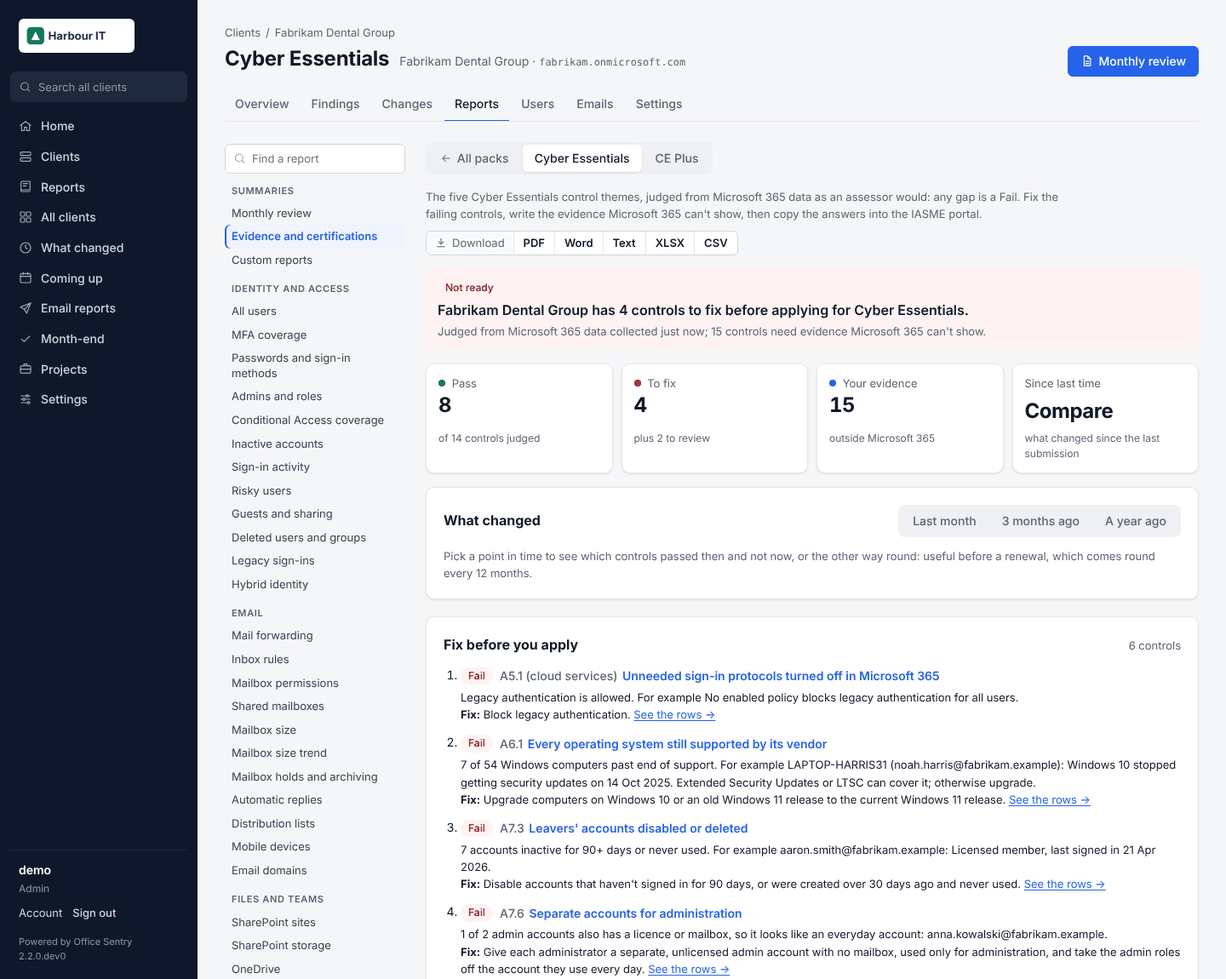
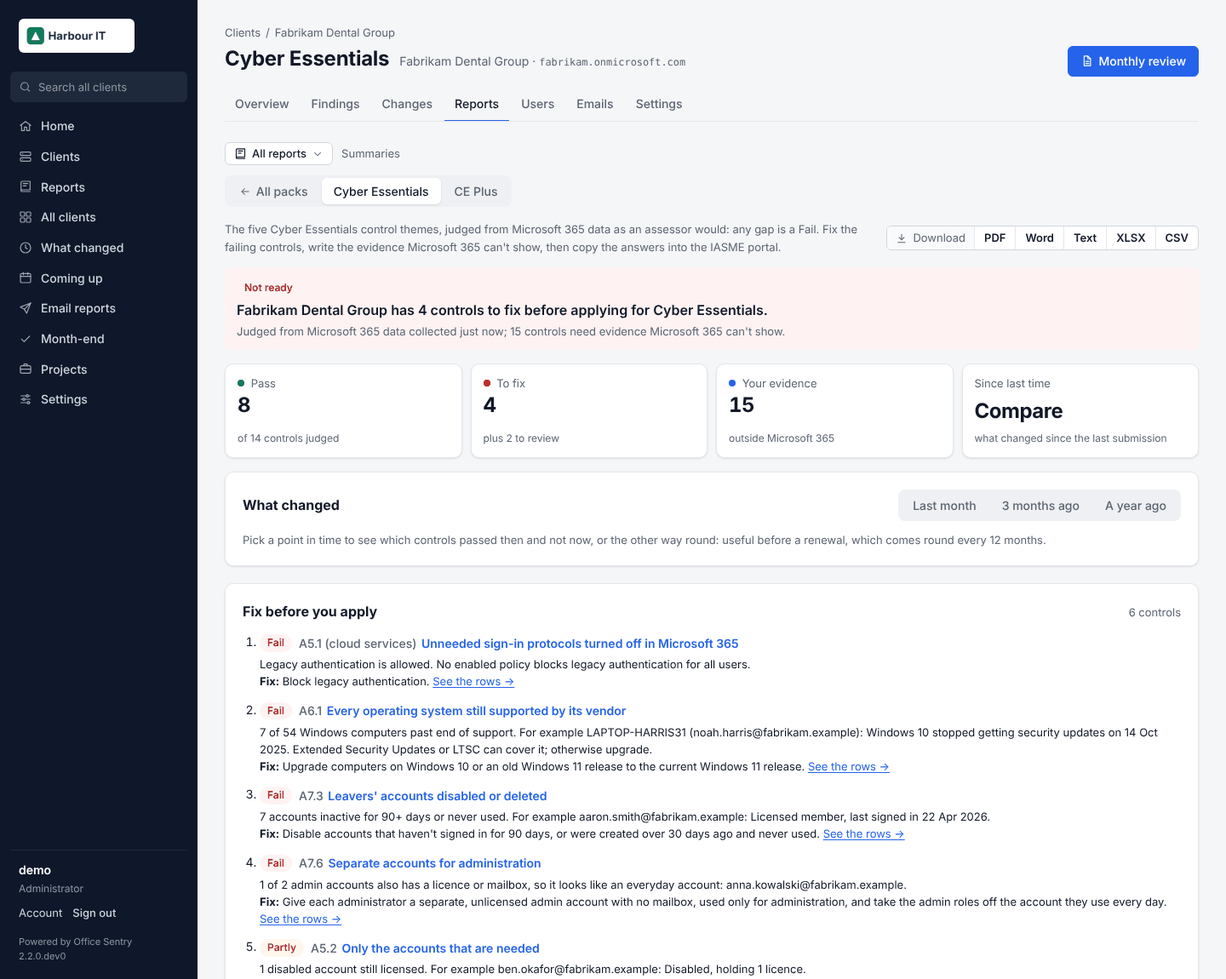
Reports use the screen: an All reports menu, a wider page and leaner tables
The list of reports beside every report becomes an "All reports" menu above it,
and pages can be 1,600 pixels wide, so a report's table gets the page's width.
A plain flag is a label beside the row's first value instead of a mostly empty
column, and explanation columns in wide tables are a line under their row.

Changed region(s): [[0.1875, 0.1522, 0.9688, 1.0], [0.9062, 0.6087, 0.9688, 0.6696], [0.5, 0.3957, 0.5312, 0.4261]]

diff --git a/v2/officesentry/web/static/app.css b/v2/officesentry/web/static/app.css
@@ -43,7 +43,8 @@ td.num { white-space: nowrap; }
 .demo-bar { display: flex; gap: var(--space-3); align-items: center; padding: var(--space-2-5) var(--space-8); background: var(--accent-soft); color: var(--text-2); border-bottom: 1px solid var(--border); font-size: var(--fs-base); }
 .demo-bar strong { color: var(--text); }
 .demo-bar .btn { flex: none; }
-main { max-width: 1240px; margin: 0 auto; padding: 28px 32px 64px; }
+/* Wide enough for a report's table on a big screen; text and forms keep their own narrower widths. */
+main { max-width: 1600px; margin: 0 auto; padding: 28px 32px 64px; }
 
 /* -- Page header, breadcrumbs, tabs --------------------------------------- */
 .crumbs { font-size: var(--fs-sm); color: var(--muted); margin-bottom: var(--space-1-5); display: flex; gap: var(--space-1-5); flex-wrap: wrap; }
@@ -226,7 +227,7 @@ details.help > summary { font-size: var(--fs-base); }
 .center { text-align: center; }
 .auth-card .form-actions .btn.primary { width: auto; }
 .client-tenant .tiles { margin-bottom: var(--space-3-5); }
-.footnote { color: var(--muted); font-size: var(--fs-sm); margin-top: var(--space-2); }
+.footnote { color: var(--muted); font-size: var(--fs-sm); margin-top: var(--space-2); max-width: 120ch; }
 
 /* -- Settings: one sidebar entry, and this row on top of every settings page ------------------------ */
 .settings-nav { display: flex; gap: var(--space-1); margin: -8px 0 20px; padding-bottom: var(--space-3); border-bottom: 1px solid var(--border); overflow-x: auto; scrollbar-width: none; }
@@ -710,20 +711,27 @@ td.tenant-col { min-width: 190px; }
 .connection-form { margin: var(--space-4) 0 0; }
 .connection-form > label { flex: 1 1 200px; }
 
-/* -- Reports tab: one report picker (report_picker) beside the report ----------------
-   A searchable list on the left on wide screens, kept in view as the page scrolls; a select above the
-   report on narrower ones. */
-.report-layout { display: grid; grid-template-columns: 212px minmax(0, 1fr); gap: var(--space-6); align-items: start; }
+/* -- Reports tab: one report picker (report_picker) above the report ----------------
+   An "All reports" menu with the report's area beside it, so the report has the page's whole width: the
+   menu shows every report in columns with a search box. A select on phones. */
+.report-layout { display: block; }
 .report-main { min-width: 0; }
-.report-menu { position: sticky; top: calc(var(--pin-h, 0px) + var(--space-4)); display: flex; flex-direction: column; max-height: calc(100vh - var(--pin-h, 0px) - var(--space-8)); margin-top: var(--space-0-5); }
+.report-menu { display: flex; align-items: center; gap: var(--space-2-5); margin: 0 0 var(--space-3); }
+.report-switch > summary { display: inline-flex; align-items: center; gap: var(--space-1-5); }
+.report-switch > summary .chev { width: 14px; height: 14px; color: var(--muted); transition: transform .15s; }
+.report-switch[open] > summary .chev { transform: rotate(180deg); }
+.report-area { color: var(--muted); font-size: var(--fs-sm); }
+.menu-panel.report-panel { left: 0; right: auto; width: min(1040px, calc(100vw - 232px - var(--space-16))); max-height: none; overflow: visible; padding: var(--space-3) var(--space-4) var(--space-3); }
+.report-panel .picker-search { max-width: 320px; }
 .picker-search { position: relative; flex: none; }
 .picker-search .icon { position: absolute; left: 10px; top: 50%; transform: translateY(-50%); width: 15px; height: 15px; color: var(--decor); pointer-events: none; }
 .picker-search input[type=search] { margin: 0; padding: 6px 10px 6px 31px; font-size: var(--fs-sm); }
-.picker-list { overflow-y: auto; overscroll-behavior: contain; scrollbar-width: thin; margin: var(--space-2) calc(-1 * var(--space-1)) 0; padding: 0 var(--space-1) var(--space-2); }
+.picker-list { margin: var(--space-2) calc(-1 * var(--space-1)) 0; padding: 0 var(--space-1); }
+.report-panel .picker-list { columns: 4 200px; column-gap: var(--space-5); max-height: min(68vh, 620px); overflow-y: auto; overscroll-behavior: contain; scrollbar-width: thin; }
+.report-panel .report-group { break-inside: avoid; padding-bottom: var(--space-2); }
 .picker-list ul { list-style: none; margin: 0; padding: 0; }
-.picker-label { margin: var(--space-3) var(--space-2) var(--space-1); font-size: var(--fs-2xs); font-weight: 600; text-transform: uppercase; letter-spacing: .06em; color: var(--muted); }
-.report-group:first-child .picker-label { margin-top: var(--space-1); }
-.picker-list .report-group li a { display: block; padding: 5px var(--space-2); border-radius: var(--radius-sm); color: var(--text-2); font-size: var(--fs-sm); font-weight: 400; line-height: 1.35; }
+.picker-label { margin: var(--space-2) var(--space-2) var(--space-1); font-size: var(--fs-2xs); font-weight: 600; text-transform: uppercase; letter-spacing: .06em; color: var(--muted); }
+.picker-list .report-group li a { display: block; padding: 4px var(--space-2); border-radius: var(--radius-sm); color: var(--text-2); font-size: var(--fs-sm); font-weight: 400; line-height: 1.35; }
 .picker-list .report-group li a:hover { background: var(--sunken); color: var(--text); text-decoration: none; }
 .picker-list .report-group li a[aria-current] { background: var(--accent-soft); color: var(--accent); font-weight: 600; box-shadow: inset 2px 0 0 var(--accent); }
 .report-menu .no-match { margin: var(--space-2) var(--space-2) 0; color: var(--muted); font-size: var(--fs-sm); }
@@ -738,20 +746,22 @@ td.tenant-col { min-width: 190px; }
 .toolbar.report-title { align-items: flex-end; }
 /* The title and its description share a row with the report's buttons, which keep to the right. */
 .report-main > .toolbar.report-title { flex-wrap: nowrap; align-items: flex-start; margin-bottom: var(--space-3-5); }
-.report-main > .toolbar.report-title > div:first-child { flex: 1 1 auto; min-width: 0; max-width: 620px; }
+.report-main > .toolbar.report-title > div:first-child { flex: 1 1 auto; min-width: 0; max-width: 760px; }
 .report-main > .toolbar.report-title .toolbar-actions { flex: none; justify-content: flex-end; padding-top: var(--space-0-5); }
 /* Headline figures sit in one row beside the picker, so the table starts higher. */
 .report-main .tiles { grid-template-columns: repeat(auto-fit, minmax(124px, 1fr)); gap: var(--space-2-5); margin-bottom: var(--space-4); }
 .report-main .tile { padding: var(--space-3) var(--space-3-5); }
 .report-main .tile .value { font-size: var(--fs-2xl); white-space: nowrap; }
 .report-main .tile .value.wordy { white-space: normal; }
-@media (max-width: 1279px) {
-  .report-layout { display: block; }
+@media (max-width: 1100px) {
   .report-main > .toolbar.report-title { flex-wrap: wrap; }
   .report-main > .toolbar.report-title .toolbar-actions { flex: 1 1 auto; justify-content: flex-start; }
+}
+@media (max-width: 960px) {
   .report-menu { display: none; }
   .report-menu-sm { display: flex; }
 }
+
 @media (max-width: 640px) {
   .report-main .tiles { grid-template-columns: repeat(2, minmax(0, 1fr)); }
 }
@@ -1265,7 +1275,7 @@ dd.sg-row { margin-bottom: 0; }
   .sg-name { min-width: 0; }
   .sg-type li { flex-wrap: wrap; gap: var(--space-1) var(--space-3); }
 }
-.sg-frame .report-menu { position: static; max-height: 360px; }
+.sg-frame .report-menu { margin-bottom: var(--space-2); }
 /* -- Home pages by role (home_today.html, home_clients.html) --------------------------------------------- */
 .home-switch { margin: 0; }
 .make-home { align-self: center; }
@@ -1491,3 +1501,36 @@ details.part:not([open]) > summary.card-head { margin-bottom: 0; }
   .edit-pair { display: grid; grid-template-columns: minmax(0, 640px) minmax(0, 1fr); gap: 0 var(--space-5); align-items: start; }
   .edit-pair > .card { max-width: none; }
 }
+
+/* -- Page review 3: reports use the page's width --------------------------------
+   The All reports menu sits above the report with "Show as it was on" at the other end of its row. */
+.report-layout:has(> .date-pick) { display: grid; grid-template-columns: minmax(0, 1fr) auto; column-gap: var(--space-4); align-items: center; }
+.report-layout > .report-main, .report-layout > .report-menu-sm { grid-column: 1 / -1; }
+.report-layout > .date-pick { grid-column: 2; grid-row: 1; margin: 0 0 var(--space-3); }
+@media (max-width: 960px) { .report-layout > .date-pick { grid-column: 1 / -1; grid-row: auto; } }
+/* A plain flag beside the row's first value, instead of a column that's empty on most rows. */
+.flag-pill { display: inline-block; margin-left: var(--space-1-5); padding: 0 var(--space-1-5); border-radius: var(--radius-pill); font-size: var(--fs-2xs); font-weight: 700; line-height: 1.6; text-transform: uppercase; letter-spacing: .04em; vertical-align: 1px; white-space: nowrap; }
+.flag-pill.critical { color: var(--sev-critical); background: var(--sev-critical-soft); }
+.flag-pill.high { color: var(--sev-high); background: var(--sev-high-soft); }
+.flag-pill.medium { color: var(--sev-medium); background: var(--sev-medium-soft); }
+.flag-pill.low, .flag-pill.info { color: var(--sev-low); background: var(--sev-low-soft); }
+/* What a row means or what to do about it: a line under the row (views.NOTE_COLUMNS), so the facts stay in
+   columns side by side. It stays at the left of the box while the table scrolls sideways. */
+tbody tr:has(+ tr.row-note) > td { border-bottom: 0; padding-bottom: var(--space-1); }
+tr.row-note > td { padding-top: 0; color: var(--muted); font-size: var(--fs-sm); }
+.table-scroll tr.row-note > td { position: static; }
+tr.row-note .note { position: sticky; left: var(--space-3); max-width: min(110ch, 100%); display: flex; flex-direction: column; gap: var(--space-0-5); }
+tr.row-note .note strong { color: var(--text-2); font-weight: 600; }
+tbody tr:hover + tr.row-note > td, tbody tr.row-note:hover > td { background: var(--surface-2); }
+@media (max-width: 640px) {
+  table.stack-sm tr:has(+ tr.row-note) { border-bottom: 0; padding-bottom: 0; }
+  table.stack-sm tr.row-note { padding-top: var(--space-1); }
+  table.stack-sm tr.row-note > td { display: block; padding: 0 var(--space-3) !important; font-weight: 400; }
+  table.stack-sm tr.row-note .note { position: static; }
+}
+/* A table's own introduction reads as a caption, and the links to a report's tables look like what they do. */
+.card.flush.table-card > .intro { font-size: var(--fs-sm); max-width: 120ch; }
+.report-main > .jump { gap: var(--space-2); }
+.report-main > .jump a { padding: var(--space-1) var(--space-3); border: 1px solid var(--border); border-radius: var(--radius-pill); background: var(--surface); font-size: var(--fs-sm); color: var(--text-2); }
+.report-main > .jump a:hover { border-color: var(--border-strong); color: var(--text); text-decoration: none; }
+.report-main > .jump a.active { border-color: var(--accent); color: var(--accent); }

diff --git a/v2/officesentry/web/templates/_macros.html b/v2/officesentry/web/templates/_macros.html
@@ -147,33 +147,41 @@
 </div>
 {%- endmacro %}
 
-{# The Reports tab's one report picker: every report the tenant has, grouped, with a search box. A list on
-   the left on wide screens, a select on narrower ones. The page puts it in a .report-layout beside
+{# The Reports tab's one report picker: every report the tenant has, grouped, with a search box. On
+   laptops an "All reports" menu above the report (its area beside it), so the report has the page's whole
+   width; a select on phones. The page puts it in a .report-layout above
    <div class="report-main" id="report" tabindex="-1">. current: a detail report's key, 'review' or 'evidence'. #}
 {% macro _picker_href(tenant, e) %}{% if e.kind == 'review' %}{{ url_for('reports.tenant_report', tenant_id=tenant.id) }}{% elif e.kind == 'evidence' %}{{ url_for('reports.evidence_pack', tenant_id=tenant.id) }}{% else %}{{ url_for('reports.data_report', tenant_id=tenant.id, key=e.key) }}{% endif %}{% endmacro %}
 {% macro report_picker(tenant, current) -%}
 {% set staff = current_user.role != 'client' and can('reports.security', tenant.id) %}
 {% set areas = report_catalogue() %}
 {% set shown = ('data', 'review', 'evidence') %}
+{% set here = namespace(area='') %}
 <nav class="report-menu" aria-label="Reports">
   <a class="skip-picker" href="#report">Skip to the report</a>
-  <div class="picker-search">
-    {{ icon('search') }}<label for="report-find" class="sr-only">Find a report</label>
-    <input id="report-find" type="search" placeholder="Find a report" autocomplete="off" maxlength="100" data-report-search="report-list">
-  </div>
-  <div class="picker-list" id="report-list">
-    {% for area in areas %}{% set entries = [] %}{% for e in area.entries if e.kind in shown and can(entry_capability(e), tenant.id) %}{% set _ = entries.append(e) %}{% endfor %}{% if entries %}
-    <div class="report-group">
-      <p class="picker-label" id="picker-{{ area.key }}">{{ area.title }}</p>
-      <ul aria-labelledby="picker-{{ area.key }}">
-        {% for e in entries %}<li data-name="{{ e.search }}"><a href="{{ _picker_href(tenant, e) }}" title="{{ e.description }}"{% if e.key == current %} aria-current="page"{% endif %}>{{ e.title }}</a></li>
-        {% endfor %}
-        {% if loop.first and staff %}<li data-name="custom reports report designs blocks"><a href="{{ url_for('designs.tenant_designs', tenant_id=tenant.id) }}" title="Your report designs, on this client's data"{% if current == 'designs' %} aria-current="page"{% endif %}>Custom reports</a></li>{% endif %}
-      </ul>
+  <details class="menu report-switch" id="report-switch">
+    <summary class="btn sm" title="Every report for {{ tenant.name }}">{{ icon('library') }}<span>All reports</span>{{ icon('chevron', 'chev') }}</summary>
+    <div class="menu-panel report-panel">
+      <div class="picker-search">
+        {{ icon('search') }}<label for="report-find" class="sr-only">Find a report</label>
+        <input id="report-find" type="search" placeholder="Find a report" autocomplete="off" maxlength="100" data-report-search="report-list">
+      </div>
+      <div class="picker-list" id="report-list">
+        {% for area in areas %}{% set entries = [] %}{% for e in area.entries if e.kind in shown and can(entry_capability(e), tenant.id) %}{% set _ = entries.append(e) %}{% if e.key == current or (current in ('review', 'evidence') and e.kind == current) %}{% set here.area = area.title %}{% endif %}{% endfor %}{% if entries %}
+        <div class="report-group">
+          <p class="picker-label" id="picker-{{ area.key }}">{{ area.title }}</p>
+          <ul aria-labelledby="picker-{{ area.key }}">
+            {% for e in entries %}<li data-name="{{ e.search }}"><a href="{{ _picker_href(tenant, e) }}" title="{{ e.description }}"{% if e.key == current %} aria-current="page"{% endif %}>{{ e.title }}</a></li>
+            {% endfor %}
+            {% if loop.first and staff %}<li data-name="custom reports report designs blocks"><a href="{{ url_for('designs.tenant_designs', tenant_id=tenant.id) }}" title="Your report designs, on this client's data"{% if current == 'designs' %} aria-current="page"{% endif %}>Custom reports</a></li>{% if current == 'designs' %}{% set here.area = area.title %}{% endif %}{% endif %}
+          </ul>
+        </div>
+        {% endif %}{% endfor %}
+      </div>
+      <p class="no-match" hidden>No report matches. The <a href="{{ url_for('reports.overview', tenant=tenant.id) }}">Reports page</a> searches by job too.</p>
     </div>
-    {% endif %}{% endfor %}
-  </div>
-  <p class="no-match" hidden>No report matches. The <a href="{{ url_for('reports.overview', tenant=tenant.id) }}">Reports page</a> searches by job too.</p>
+  </details>
+  {% if here.area %}<span class="report-area">{{ here.area }}</span>{% endif %}
 </nav>
 <form method="get" action="{{ url_for('reports.data_index', tenant_id=tenant.id) }}" class="picker-form report-menu-sm" data-autosubmit>
   <label for="report-key">Report</label>

diff --git a/v2/officesentry/web/templates/_report_table.html b/v2/officesentry/web/templates/_report_table.html
@@ -106,20 +106,28 @@
   <p class="no-rows">No rows match {{ 'this filter' if tv.chips|length == 1 else 'these filters' }}. <a href="{{ tv.clear_href }}" data-view>Show all {{ tv.total }}</a></p>
   {% else %}
   {% set sortable = tv.total > 1 %}
-  {% set width = tv.shown|length + (1 if tv.flag else 0) + (1 if acts else 0) %}
+  {#- A plain "Flag" sits beside the row's first value (the coloured edge marks the row too); a named one
+      (Severity, Priority) keeps its own column, since people sort by it. -#}
+  {% set flagcol = tv.flag and section.flag_name != 'Flag' %}
+  {% set notes = tv.notes %}
+  {% set width = tv.shown|length - notes|length + (1 if flagcol else 0) + (1 if acts else 0) %}
   <div class="table-scroll{{ ' tall' if tv.rows|length > 12 }}" data-key="{{ tv.slug }}">
   <table class="stack-sm{{ ' grouped' if tv.groups }}" id="tbl-{{ tv.slug }}">
     <thead><tr>
-      {% if tv.flag %}<th class="flagcol" aria-sort="{{ {'asc': 'ascending', 'desc': 'descending'}.get(tv.flag.sort, 'none') }}">{% if sortable %}<a class="sort" href="{{ tv.flag.sort_href }}" data-view title="Sort by {{ tv.flag.name|lower }}">{{ tv.flag.name }}</a>{% else %}{{ tv.flag.name }}{% endif %}{% if tv.flag.filtered %}<span class="filter-dot" title="Filtered"></span>{% endif %}</th>{% endif %}
-      {% for c in tv.shown %}<th class="{{ 'num' if c.kind == 'num' }}" aria-sort="{{ {'asc': 'ascending', 'desc': 'descending'}.get(c.sort, 'none') }}">{% if sortable %}<a class="sort" href="{{ c.sort_href }}" data-view>{{ c.name }}</a>{% else %}{{ c.name }}{% endif %}{% if c.filtered %}<span class="filter-dot" title="Filtered"></span>{% endif %}</th>{% endfor %}
+      {% if flagcol %}<th class="flagcol" aria-sort="{{ {'asc': 'ascending', 'desc': 'descending'}.get(tv.flag.sort, 'none') }}">{% if sortable %}<a class="sort" href="{{ tv.flag.sort_href }}" data-view title="Sort by {{ tv.flag.name|lower }}">{{ tv.flag.name }}</a>{% else %}{{ tv.flag.name }}{% endif %}{% if tv.flag.filtered %}<span class="filter-dot" title="Filtered"></span>{% endif %}</th>{% endif %}
+      {% for c in tv.shown %}{% if loop.index0 not in notes %}<th class="{{ 'num' if c.kind == 'num' }}" aria-sort="{{ {'asc': 'ascending', 'desc': 'descending'}.get(c.sort, 'none') }}">{% if sortable %}<a class="sort" href="{{ c.sort_href }}" data-view>{{ c.name }}</a>{% else %}{{ c.name }}{% endif %}{% if c.filtered %}<span class="filter-dot" title="Filtered"></span>{% endif %}</th>{% endif %}{% endfor %}
       {% if acts %}<th>{{ action }}</th>{% endif %}
     </tr></thead>
     {% macro row(cells, flag, key) -%}
     <tr{% if flag %} class="flag-{{ flag }}"{% endif %} data-name="{{ cells|join(' ')|lower }}{{ (' ' ~ flag) if flag }}">
-      {% if tv.flag %}<td class="flagcol">{% if flag %}<span class="sevtext {{ flag }}">{{ flag }}</span>{% endif %}</td>{% endif %}
-      {% for v in cells %}{% set c = tv.shown[loop.index0] %}<td class="{{ 'nowrap' if c.kind == 'date' else 'wrap' }}{{ ' num' if c.kind == 'num' }}{{ ' short' if (v|string)|length <= 32 }}"{% if not loop.first %} data-label="{{ c.name }}"{% endif %}>{{ cell(v) }}</td>{% endfor %}
+      {% if flagcol %}<td class="flagcol">{% if flag %}<span class="sevtext {{ flag }}">{{ flag }}</span>{% endif %}</td>{% endif %}
+      {% for v in cells %}{% if loop.index0 not in notes %}{% set c = tv.shown[loop.index0] %}<td class="{{ 'nowrap' if c.kind == 'date' else 'wrap' }}{{ ' num' if c.kind == 'num' }}{{ ' short' if (v|string)|length <= 32 }}"{% if not loop.first %} data-label="{{ c.name }}"{% endif %}>{{ cell(v) }}{% if loop.first and flag and not flagcol %} <span class="flag-pill {{ flag }}">{{ flag }}</span>{% endif %}</td>{% endif %}{% endfor %}
       {% if acts %}<td class="row-action" data-label="{{ action }}">{{ act(key) }}</td>{% endif %}
     </tr>
+    {%- set said = [] %}{% for i in notes if (cells[i]|string) not in ('', 'Nothing', 'None', '-', '–', '—') %}{% set _ = said.append(i) %}{% endfor %}
+    {%- if said %}
+    <tr class="row-note{{ (' flag-' ~ flag) if flag }}"><td colspan="{{ width }}"><div class="note">{% for i in said %}<span><strong>{{ tv.shown[i].name }}:</strong> {{ cell(cells[i]) }}</span>{% endfor %}</div></td></tr>
+    {%- endif %}
     {%- endmacro %}
     {% if tv.groups %}
     {% for gr in tv.groups %}

diff --git a/v2/officesentry/web/static/tables.js b/v2/officesentry/web/static/tables.js
@@ -67,6 +67,8 @@
         var q = input.value.trim().toLowerCase();
         table.classList.toggle('searching', !!q);
         table.querySelectorAll('tbody tr').forEach(function (tr) {
+          // A row's note line (tr.row-note) goes with the row above it.
+          if (tr.classList.contains('row-note')) { tr.hidden = !!(tr.previousElementSibling && tr.previousElementSibling.hidden); return; }
           tr.hidden = q && (tr.getAttribute('data-name') || '').indexOf(q) === -1;
         });
       });
@@ -139,6 +141,11 @@
     all.querySelector('span').textContent = folded ? 'Expand all' : 'Collapse all';
   });
 
+  /* The All reports menu: its search box takes the typing as it opens. */
+  document.addEventListener('toggle', function (e) {
+    var d = e.target;
+    if (d.id === 'report-switch' && d.open) { var f = d.querySelector('input[type=search]'); if (f) f.focus(); }
+  }, true);
   /* Menus (<details class="menu">) close on Escape or a click outside. */
   document.addEventListener('click', function (e) {
     document.querySelectorAll('details.menu[open]').forEach(function (d) { if (!d.contains(e.target)) d.open = false; });
@@ -150,15 +157,16 @@
 
   /* Long tables: the first rows of a stacked table, then a "Show all" button. */
   function rows(table) {
-    return Array.prototype.filter.call(table.tBodies[0].rows, function (r) { return !r.classList.contains('group'); });
+    return Array.prototype.filter.call(table.tBodies[0].rows, function (r) { return !r.classList.contains('group') && !r.classList.contains('row-note'); });
   }
   function markCap(table) {
     if (!table.classList.contains('capped')) return;
     var cap = Number(table.getAttribute('data-cap')) || CAP;
-    var shown = 0;  // a group heading goes with the rows under it
+    var shown = 0;  // a group heading goes with the rows under it, a note line with the row above it
     Array.prototype.forEach.call(table.tBodies[0].rows, function (r) {
-      r.classList.toggle('over-cap', shown >= cap);
-      if (!r.classList.contains('group')) shown++;
+      var note = r.classList.contains('row-note');
+      r.classList.toggle('over-cap', note ? shown > cap : shown >= cap);
+      if (!r.classList.contains('group') && !note) shown++;
     });
   }
   function capRows(root) {

diff --git a/v2/officesentry/web/templates/styleguide.html b/v2/officesentry/web/templates/styleguide.html
@@ -185,7 +185,7 @@
 <section class="card" id="navigation">
   <div class="card-head"><h2>Navigation</h2><span class="meta"><code>tenant_header()</code> (its tab bar stays pinned on laptops), <code>report_picker()</code>, pill rows, segmented controls</span></div>
   <div class="sg-frame">{{ tenant_header(tenant, 'data', counts={'findings': 137}, pin=false) }}</div>
-  <div class="sg-frame"><div class="report-layout">{{ report_picker(tenant, 'mfa') }}<div class="report-main"><p class="muted m0">The open report, beside a list of every report with a search box. Narrower screens get a select instead.</p></div></div></div>
+  <div class="sg-frame"><div class="report-layout">{{ report_picker(tenant, 'mfa') }}<div class="report-main"><p class="muted m0">The open report, under an "All reports" menu (every report in columns, with a search box) and the report's area. Phones get a select instead.</p></div></div></div>
   <div class="sg-frame"><nav class="subtabs m0" aria-label="Example pill row"><a class="active" aria-current="page" href="#navigation">Monthly review</a><a href="#navigation">Insurance evidence <span class="n">4</span></a><a href="#navigation">Checks</a></nav><p class="muted small m0">A pill row (<code>.subtabs</code>) is a row of links that choose what the page lists; a count sits in <code>.n</code>.</p></div>
   <div class="sg-frame"><div class="seg sm" role="radiogroup" aria-label="Example segmented control"><label><input type="radio" name="sg-seg" checked><span>Weekly</span></label><label><input type="radio" name="sg-seg"><span>Monthly</span></label><label><input type="radio" name="sg-seg"><span>Quarterly</span></label></div><p class="muted small m0">A segmented control (<code>.seg</code>) is a choice inside a form, or a toggle that changes how the same thing is shown.</p></div>
 </section>

diff --git a/v2/officesentry/web/templates/data_report.html b/v2/officesentry/web/templates/data_report.html
@@ -6,6 +6,14 @@
 {{ tenant_header(tenant, 'data') }}
 <div class="report-layout">
 {{ report_picker(tenant, report.key) }}
+{% if day.earliest %}
+{#- Any day the data reaches back to: the report as the tenant was at the end of it. Filters stay. -#}
+<form class="date-pick" method="get" action="{{ request.path }}">
+  {% for k, v in request.args.items(multi=True) if k != 'on' %}<input type="hidden" name="{{ k }}" value="{{ v }}">{% endfor %}
+  <label>Show as it was on <input type="date" name="on" value="{{ (day.on or day.today).isoformat() }}" min="{{ day.earliest.isoformat() }}" max="{{ day.today.isoformat() }}" required></label>
+  <button class="sm">Show</button>
+</form>
+{% endif %}
 <div class="report-main" id="report" tabindex="-1">
 <div class="toolbar report-title">
   <div>
@@ -22,14 +30,6 @@
   </div>
   {% endif %}
 </div>
-{% if day.earliest %}
-{#- Any day the data reaches back to: the report as the tenant was at the end of it. Filters stay. -#}
-<form class="date-pick" method="get" action="{{ request.path }}">
-  {% for k, v in request.args.items(multi=True) if k != 'on' %}<input type="hidden" name="{{ k }}" value="{{ v }}">{% endfor %}
-  <label>Show as it was on <input type="date" name="on" value="{{ (day.on or day.today).isoformat() }}" min="{{ day.earliest.isoformat() }}" max="{{ day.today.isoformat() }}" required></label>
-  <button class="sm">Show</button>
-</form>
-{% endif %}
 {% if day.on %}
 <div class="callout as-of">{{ icon('clock') }}<div><strong>As it was on {{ day.label }}</strong>
   <p class="m0">{{ day.note or 'This is the data Office Sentry held at the end of that day.' }}

diff --git a/v2/officesentry/reports/views.py b/v2/officesentry/reports/views.py
@@ -39,6 +39,22 @@ AGES = {
     "none": "Never or blank",
 }
 MAX_VALUES = 30  # a column with more distinct values than this gets no value filter
+# Columns that explain a row rather than describe it. On the page, a table this wide draws them as a line
+# under their row, so the facts stay side by side; downloads keep them as columns.
+NOTE_COLUMNS = frozenset(
+    {
+        "What it means",
+        "What to check",
+        "What to do",
+        "What to fix",
+        "What happens",
+        "Why it matters",
+        "Why",
+        "Why we think it's break-glass",
+        "How to free it",
+    }
+)
+NOTES_FROM = 6  # columns shown before the notes move under their rows
 MAX_PARAMS = 60
 _SLUG = re.compile(r"^[a-z0-9-]{1,80}$")
 _DATE = re.compile(r"^(\d{4})-(\d{2})-(\d{2})")
@@ -589,6 +605,14 @@ class TableView:
     def shown(self) -> list[Column]:
         """The columns each row draws: the visible ones, less the group column while grouped."""
         return [c for c in self.visible if not (self.groups and c is self.group_column)]
+
+    @property
+    def notes(self) -> list[int]:
+        """Indexes into ``shown`` of the columns the page draws as a line under each row (``NOTE_COLUMNS``)."""
+        shown = self.shown
+        if len(shown) < NOTES_FROM:
+            return []
+        return [i for i, c in enumerate(shown) if i and c.name in NOTE_COLUMNS]
 
     @property
     def filters(self) -> list[Column]:

diff --git a/v2/CLAUDE.md b/v2/CLAUDE.md
@@ -427,6 +427,10 @@ turning each step's `target` into a link.
   keep 10 rows on a laptop and 5 on a phone, one alone keeps every row on a
   laptop and 20 on a phone; a table with `data-cap` set is left alone). A
   page that also loads `tables.js` itself still gets one copy.
+- In `_report_table.html` a plain flag (`flag_name` "Flag") is a `.flag-pill` beside the row's first value;
+  a named one (Severity, Priority) keeps its column. A table showing `views.NOTES_FROM` columns or more
+  draws the ones in `views.NOTE_COLUMNS` ("What it means", "Why" ...) as a `tr.row-note` line under each
+  row; `tables.js` keeps it with its row in search and row caps. Downloads keep both as columns.
 - A list cell (`Many`) of more than three items shows two and "and N more"
   (`_report_table.html`); a cell of 32 characters or fewer gets class
   `short` and sits beside its label in a stacked table on a phone.
@@ -444,9 +448,9 @@ turning each step's `target` into a link.
   top as the page scrolls (`data-pin`, `app.js`: CSS `position: sticky` with a negative top, so nothing
   changes height); pass `pin=false` for a sample header. The Reports tab has no second row: its pages
   (Monthly review, Questionnaires and evidence, every detail report from `library.catalogue()`, and
-  Custom reports for staff) are in `report_picker()`, a searchable list beside the report on wide screens
-  and a select on narrower ones;
-  a page that uses it wraps itself in `.report-layout` with the report in `.report-main`.
+  Custom reports for staff) are in `report_picker()`, an "All reports" menu above the report (every report
+  in columns with a search box, the report's area beside it) and a select on phones, so the report gets the
+  page's width; a page that uses it wraps itself in `.report-layout` with the report in `.report-main`.
 - Show times with the `ts()` macro or the `ago`/`when`/`day` filters, never raw
   ISO strings. Licence flags go through the `capability` filter. Python code
   outside `web/` (reports, emails) uses the same functions from

diff --git a/CHANGELOG.md b/CHANGELOG.md
@@ -228,6 +228,14 @@ client's approval.
   the **month-end review** shows each failing check on one line with "Add a note" at its end.
 - A user's settings show what their role opens beside the form on a wide screen.
 - Report tables and a person's page show dates as "8 Oct 2026, 09:22" rather than `2026-10-08T09:22:00Z`.
+- **Reports use the screen.** Pages can be 1,600 pixels wide instead of 1,240, and the list of reports is an
+  "All reports" menu above the report (every report in columns, with a search box, and the report's area
+  beside it) instead of a column beside it, so a report's table gets the page's width. "Show as it was on"
+  sits on the same row. On a 1920 screen the All users table shows 9 of its 11 columns instead of 6.
+- In report tables a plain flag is a small label beside the row's first value instead of a column that's
+  empty on most rows (named ones, such as Severity on Findings, stay columns). In wide tables, columns that
+  explain a row ("What it means", "What to check", "Why" ...) are a line under it, so the facts stay side by
+  side; downloads keep them as columns. The links to a report's tables look like buttons.
 
 ### Fixed
 
